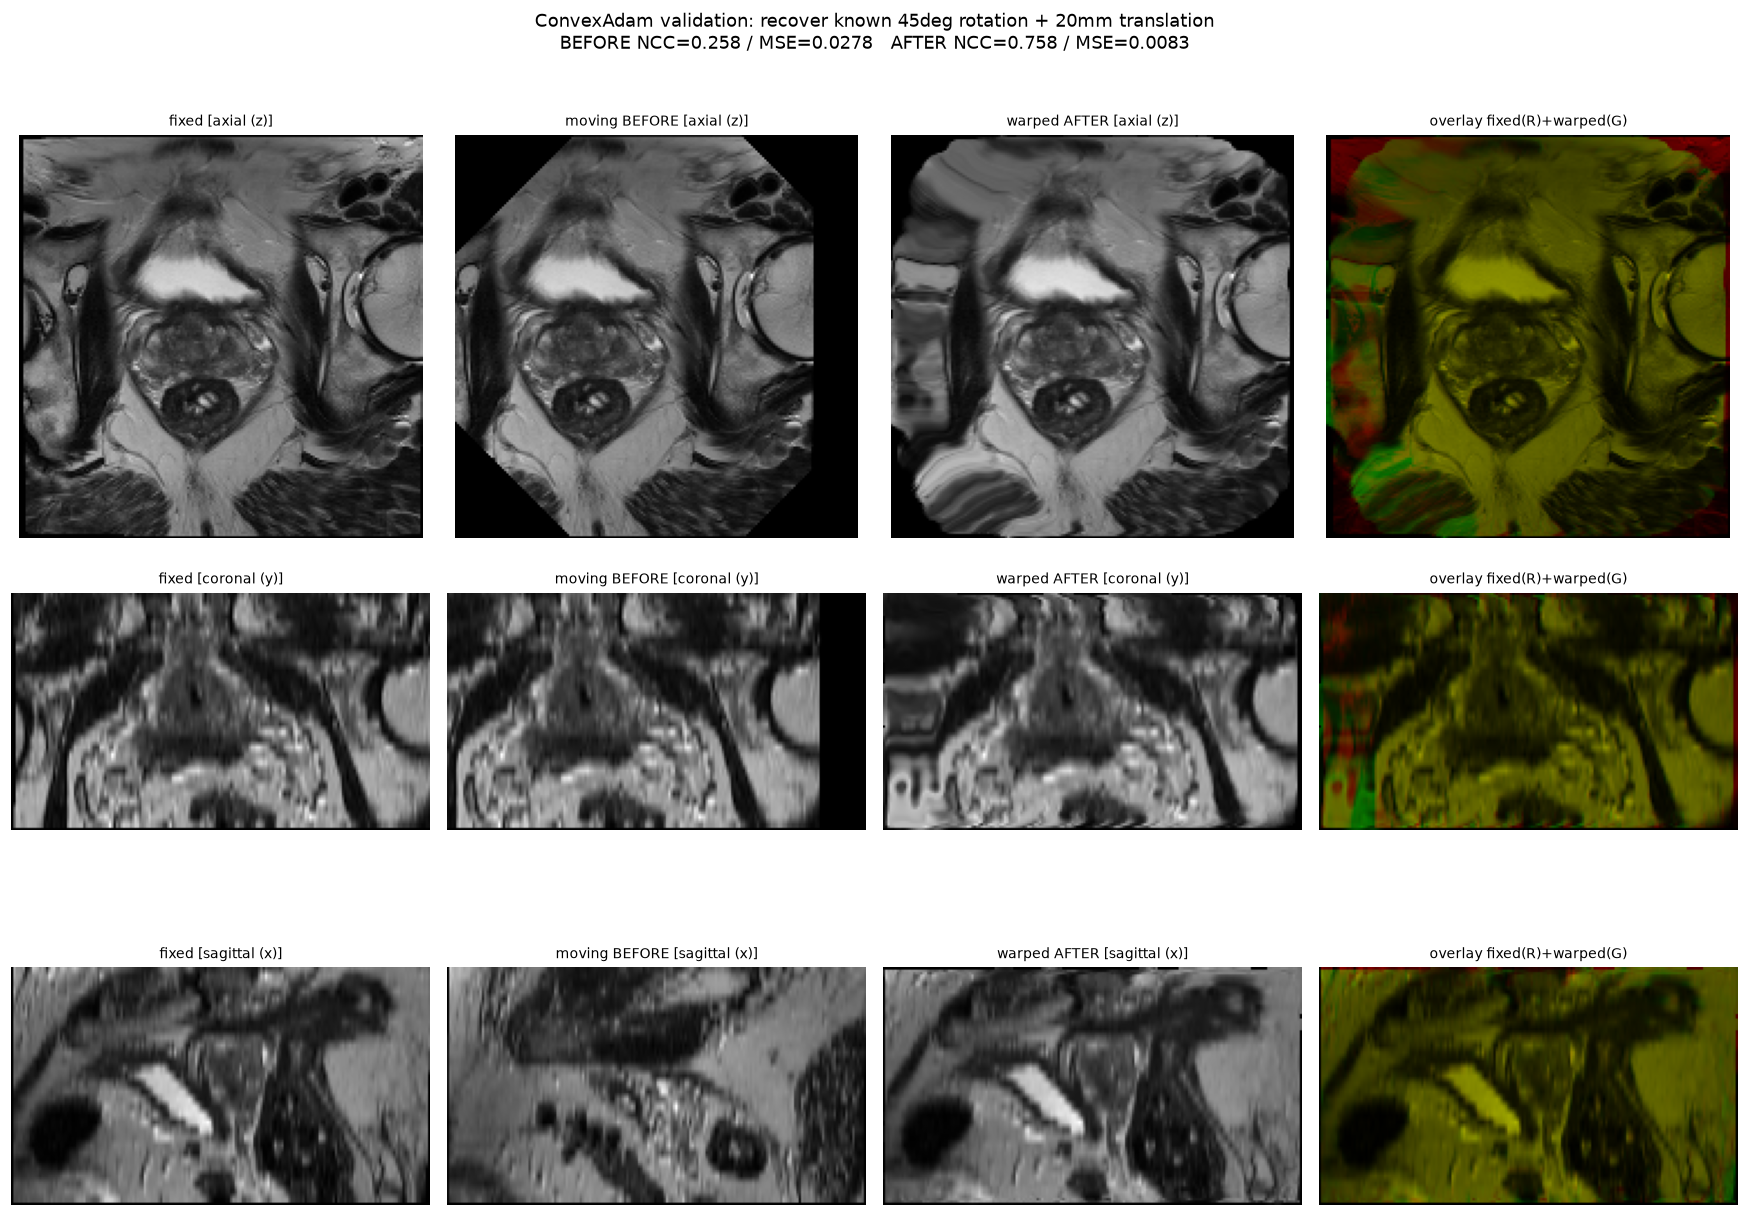
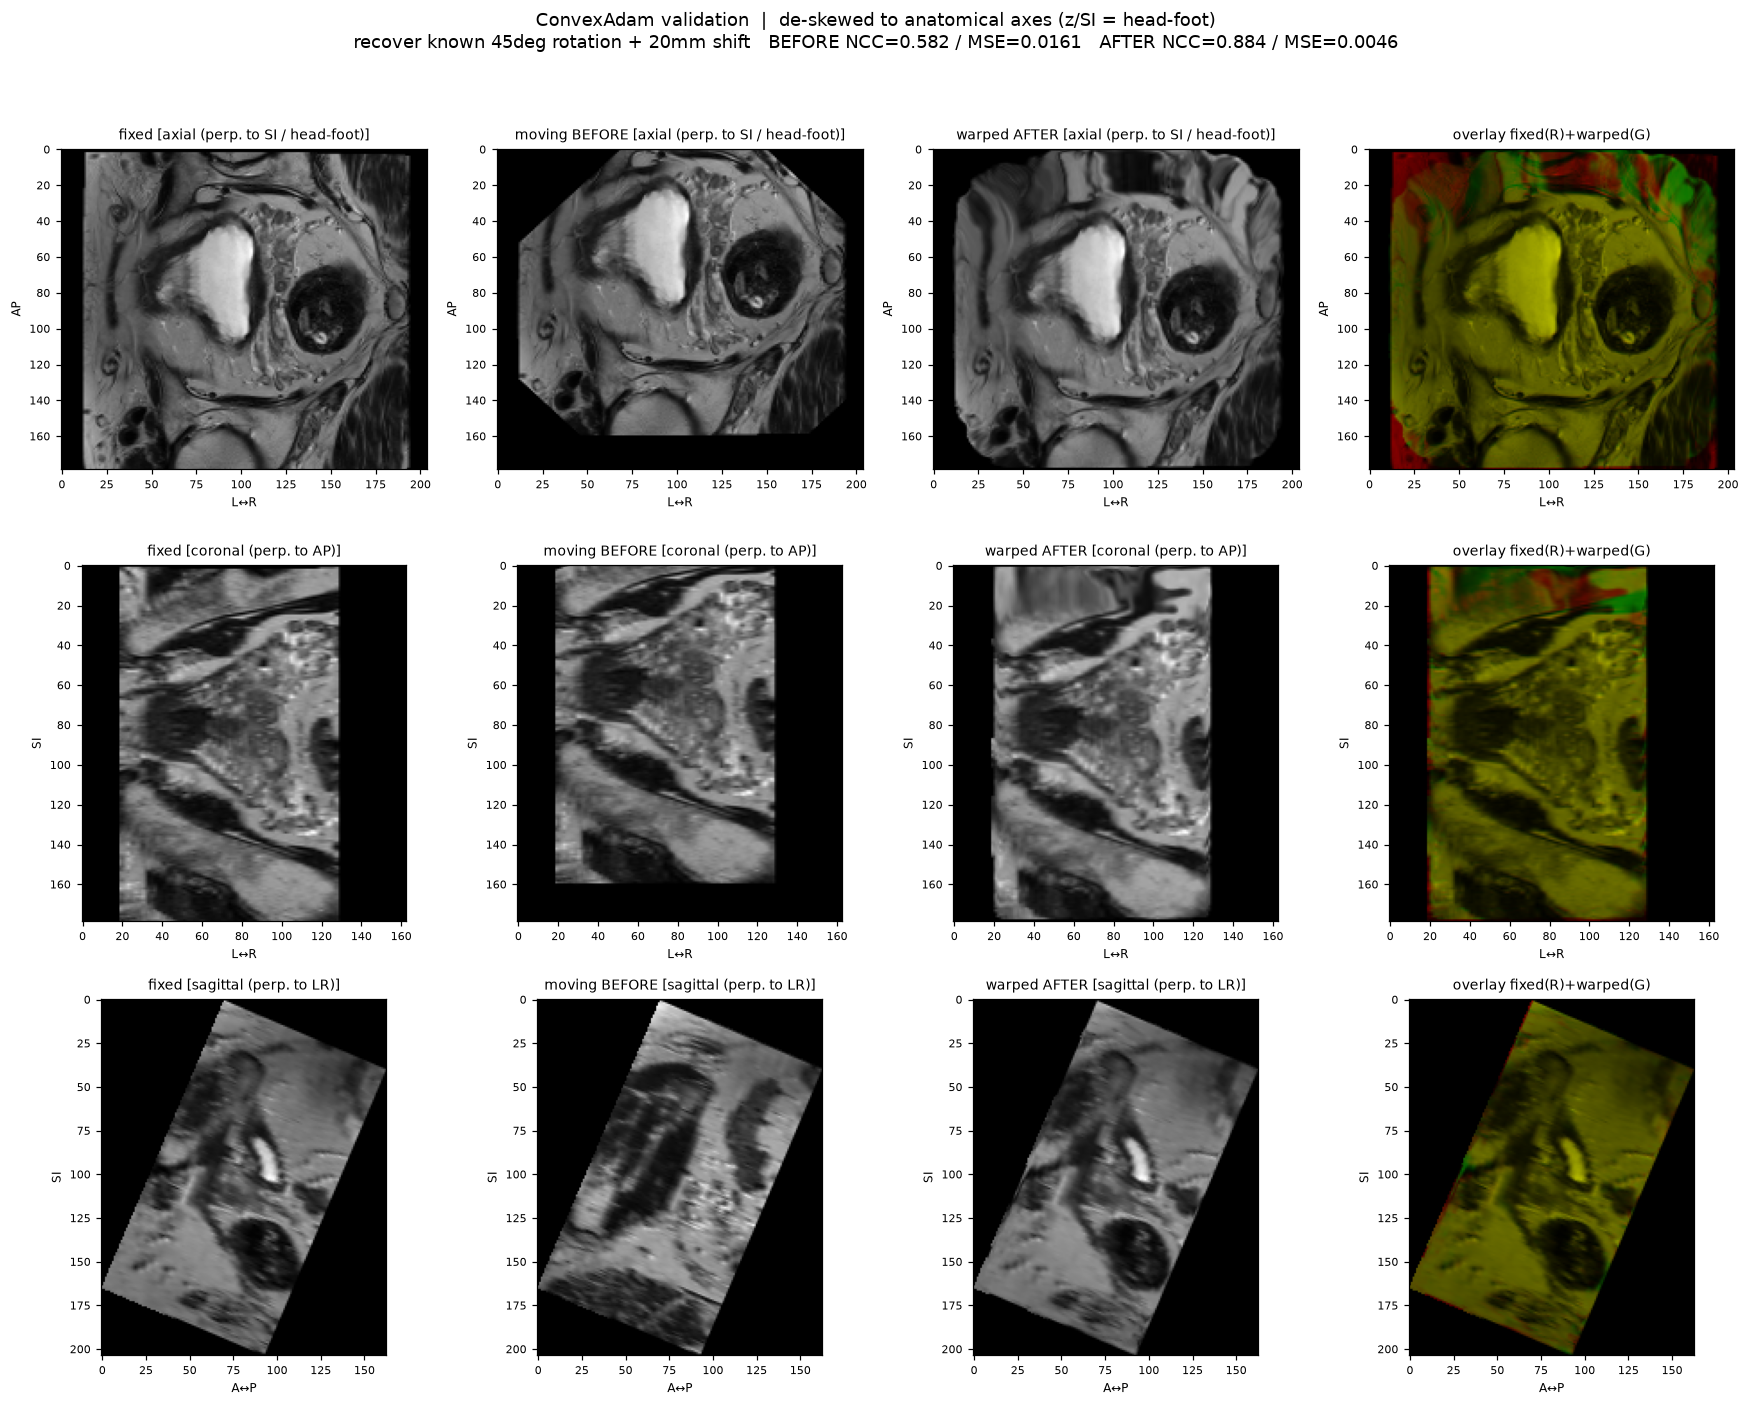
experiments: 可视化去斜，规整到解剖学坐标系 (z=SI=头脚)
- 原 np.take 沿数组轴切片，体数据 y-z 平面有 ~23° 斜采 → 切片歪
- 新增 axis_aligned_reference() 把体数据 resample 到方向=单位阵网格去斜
- to_ras_array() 重排为 (LR,AP,SI)，axis2=SI=头脚；轴位/冠状/矢状沿对应轴切
- 去斜后 NCC 0.582->0.884

diff --git a/experiments/validate_known_transform.py b/experiments/validate_known_transform.py
@@ -1,20 +1,25 @@
 """
-Validate ConvexAdam registration on the bundled anisotropic test.
+Validate ConvexAdam registration (bundled anisotropic test) with anatomically
+correct, de-skewed visualization.
 
-The upstream test ``test_convex_adam_rotated_and_shifted_anisotropic`` takes the
-t2w volume, applies a KNOWN transform (45 deg rotation + 20 mm translation) to
-create the moving image, then registers moving -> fixed. We compare alignment
-BEFORE vs AFTER registration against the fixed (ground-truth pose) image.
+Why this rewrite: the test volumes are OBLIQUE (~23 deg in the y-z plane — see
+their direction matrix). Slicing the raw array axes therefore produced tilted
+("歪的") slices. Here we first resample every volume to an identity-direction
+(axis-aligned) grid in the fixed image's physical frame, then reorder to a
+canonical anatomical layout so that:
 
-Why a known transform (not frame-drop): registration aligns two misaligned
-images, so its correct ground-truth check is "did we recover the known
-displacement?". Frame-drop (undersampling) validates super-resolution, not
-registration -- that experiment belongs to ECLARE.
+  numpy axis 0 ~ Left-Right   (physical x, LPS)
+  numpy axis 1 ~ Anterior-Posterior (physical y)
+  numpy axis 2 ~ Superior-Inferior (physical z)   <-- head-foot / 身高方向
 
-Reads from ConvexAdam/tests/output/10000/ (produced by running the test).
-Writes figures to ConvexAdam/experiments/figures/.
+Then: axial   = slice along axis 2 (SI / head-foot)
+      coronal = slice along axis 1 (AP)
+      sagittal= slice along axis 0 (LR)
 
-Run (from WSL, convexadam venv, cwd = ConvexAdam root):
+Inputs: ConvexAdam/tests/output/10000/  (from test_convex_adam_mind_aniso.py)
+Output: ConvexAdam/experiments/figures/validate_known_transform.png
+
+Run (WSL, convexadam venv, cwd = ConvexAdam root):
     python experiments/validate_known_transform.py
 """
 from pathlib import Path
@@ -31,13 +36,48 @@ FIG = Path(__file__).resolve().parent / "figures"
 FIG.mkdir(exist_ok=True, parents=True)
 
 
-def arr(name):
-    img = sitk.ReadImage(str(OUT / f"{SUBJ}_{name}.mha"))
-    return sitk.GetArrayFromImage(img).astype(np.float32)
+def axis_aligned_reference(img):
+    """Build an identity-direction SimpleITK image covering the same physical
+    bounding box as ``img`` (same spacing). De-skews oblique acquisitions."""
+    spacing = np.array(img.GetSpacing(), float)
+    D = np.array(img.GetDirection()).reshape(3, 3)
+    size = np.array(img.GetSize(), int)
+    origin = np.array(img.GetOrigin(), float)
+    corners = []
+    for i in (0, size[0] - 1):
+        for j in (0, size[1] - 1):
+            for k in (0, size[2] - 1):
+                corners.append(origin + D @ (np.array([i, j, k]) * spacing))
+    corners = np.array(corners)
+    pmin, pmax = corners.min(axis=0), corners.max(axis=0)
+    new_size = np.maximum(1, np.round((pmax - pmin) / spacing)).astype(int)
+    ref = sitk.Image([int(s) for s in new_size], img.GetPixelID())
+    ref.SetSpacing(tuple(spacing))
+    ref.SetOrigin(tuple(pmin))
+    ref.SetDirection((1.0, 0.0, 0.0, 0.0, 1.0, 0.0, 0.0, 0.0, 1.0))
+    return ref
+
+
+def to_ras_array(path, ref):
+    """Resample image into the shared axis-aligned ``ref`` grid and return a
+    numpy array ordered (LR, AP, SI)."""
+    img = sitk.Resample(sitk.ReadImage(str(path)), ref, sitk.Transform(), sitk.sitkLinear)
+    arr = sitk.GetArrayFromImage(img)            # (z=SI, y=AP, x=LR)
+    return np.transpose(arr, (2, 1, 0)).astype(np.float32)  # -> (LR, AP, SI)
+
+
+fixed0 = sitk.ReadImage(str(OUT / f"{SUBJ}_fixed_resampled.mha"))
+ref = axis_aligned_reference(fixed0)
+fa = to_ras_array(OUT / f"{SUBJ}_fixed_resampled.mha", ref)
+ma = to_ras_array(OUT / f"{SUBJ}_moving_rotated_and_shifted_resampled.mha", ref)
+wa = to_ras_array(OUT / f"{SUBJ}_moving_rotated_and_shifted_resampled_warped.mha", ref)
 
 
 def norm(x):
     return (x - x.min()) / (x.max() - x.min() + 1e-8)
+
+
+fa, ma, wa = norm(fa), norm(ma), norm(wa)
 
 
 def ncc(a, b):
@@ -50,41 +90,57 @@ def mse(a, b):
     return float(((a - b) ** 2).mean())
 
 
-fa = norm(arr("fixed_resampled"))
-ma = norm(arr("moving_rotated_and_shifted_resampled"))
-wa = norm(arr("moving_rotated_and_shifted_resampled_warped"))
-
-print("=== alignment vs fixed (ground-truth pose) ===")
+print("=== alignment vs fixed (de-skewed, anatomical frame) ===")
 print(f"moving BEFORE reg: NCC={ncc(fa, ma):.4f}  MSE={mse(fa, ma):.6f}")
 print(f"warped AFTER  reg: NCC={ncc(fa, wa):.4f}  MSE={mse(fa, wa):.6f}")
-print(f"improvement: NCC +{ncc(fa, wa) - ncc(fa, ma):.4f}")
+print(f"array shape (LR, AP, SI) = {fa.shape}   # axis 2 = head-foot")
 
-axes_names = ["axial (z)", "coronal (y)", "sagittal (x)"]
-fig, axs = plt.subplots(3, 4, figsize=(16, 12))
-for row, (name, axis) in enumerate(zip(axes_names, range(3))):
-    sidx = fa.shape[axis] // 2
+
+def best_slices(mask):
+    """Index of the most-informative slice along each axis (max foreground)."""
+    out = []
+    for ax in range(3):
+        other = tuple(i for i in range(3) if i != ax)
+        out.append(int(np.argmax(mask.sum(axis=other))))
+    return out
+
+
+slices = best_slices(fa > (fa.mean() + 0.5 * fa.std()))
+
+# (title, slice axis, slice idx, vertical-label, horizontal-label)
+planes = [
+    ("axial (perp. to SI / head-foot)", 2, slices[2], "AP", "L↔R"),
+    ("coronal (perp. to AP)", 1, slices[1], "SI", "L↔R"),
+    ("sagittal (perp. to LR)", 0, slices[0], "SI", "A↔P"),
+]
+
+fig, axs = plt.subplots(3, 4, figsize=(16, 13))
+for row, (name, axis, sidx, vy, hx) in enumerate(planes):
     f = np.take(fa, sidx, axis=axis)
     m = np.take(ma, sidx, axis=axis)
     w = np.take(wa, sidx, axis=axis)
-    overlay = np.stack([f, w, np.zeros_like(f)], axis=-1)  # R=fixed G=warped -> yellow=aligned
-    for col, (img, title, cmap) in enumerate([
+    overlay = np.stack([f, w, np.zeros_like(f)], axis=-1)  # R=fixed, G=warped -> yellow=aligned
+    for col, (im, title, cmap) in enumerate([
         (f, f"fixed [{name}]", "gray"),
         (m, f"moving BEFORE [{name}]", "gray"),
         (w, f"warped AFTER [{name}]", "gray"),
         (overlay, "overlay fixed(R)+warped(G)", None),
     ]):
         ax = axs[row, col]
-        ax.imshow(img, cmap=cmap) if cmap else ax.imshow(img)
+        ax.imshow(im, cmap=cmap, aspect="equal") if cmap else ax.imshow(im, aspect="equal")
         ax.set_title(title, fontsize=9)
-        ax.axis("off")
+        ax.set_xlabel(hx, fontsize=8)
+        ax.set_ylabel(vy, fontsize=8)
+        ax.tick_params(labelsize=7)
 
 plt.suptitle(
-    "ConvexAdam validation: recover known 45deg rotation + 20mm translation\n"
+    "ConvexAdam validation  |  de-skewed to anatomical axes (z/SI = head-foot)\n"
+    f"recover known 45deg rotation + 20mm shift   "
     f"BEFORE NCC={ncc(fa, ma):.3f} / MSE={mse(fa, ma):.4f}   "
     f"AFTER NCC={ncc(fa, wa):.3f} / MSE={mse(fa, wa):.4f}",
     fontsize=12,
 )
-plt.tight_layout(rect=(0, 0, 1, 0.96))
+plt.tight_layout(rect=(0, 0, 1, 0.95))
 out_png = FIG / "validate_known_transform.png"
 plt.savefig(out_png, dpi=110, bbox_inches="tight")
 print(f"saved: {out_png}")